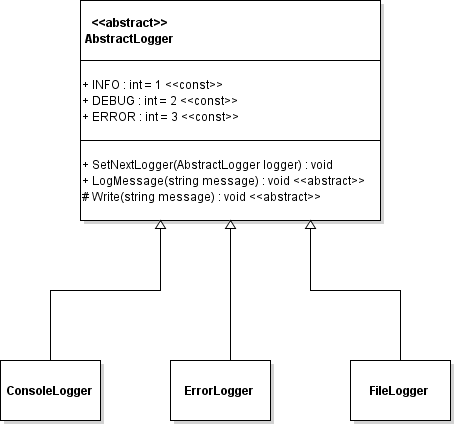
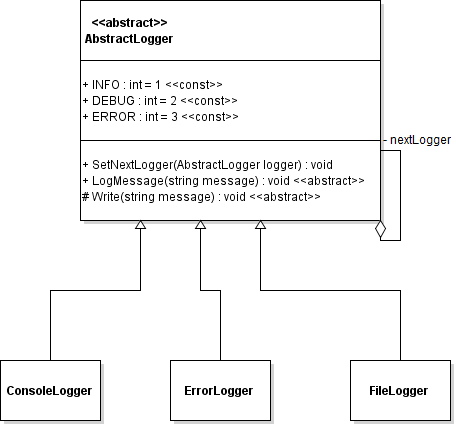
Add Docs Responsability

diff --git a/Docs/SimpleLoggerDiagram.class.violet.html b/Docs/SimpleLoggerDiagram.class.violet.html
@@ -147,166 +147,190 @@ AbstractLogger</text>
       <middleLabel></middleLabel>
       <endLabel></endLabel>
     </InheritanceEdge>
+    <AggregationEdge id="49">
+      <start class="ClassNode" reference="3"/>
+      <end class="ClassNode" reference="3"/>
+      <startLocation class="Point2D.Double" id="50" x="230.0" y="110.0"/>
+      <endLocation class="Point2D.Double" reference="50"/>
+      <transitionPoints id="51">
+        <Point2D.Double id="52" x="530.0" y="120.0"/>
+        <Point2D.Double id="53" x="500.0" y="150.0"/>
+      </transitionPoints>
+      <id id="54" value="3b5801ab-c475-4ca6-b536-6c50045ef6e2"/>
+      <revision>1</revision>
+      <bentStyle name="STRAIGHT"/>
+      <startLabel>- nextLogger</startLabel>
+      <middleLabel></middleLabel>
+      <endLabel></endLabel>
+    </AggregationEdge>
   </edges>
 </ClassDiagramGraph>]]></SCRIPT>
 	<BR />
 	<BR />
[26 lines of base64/hex data omitted]
-VbEqAGBVrIpVAbAqVsWqAFgVq2JVAMCqWBWrAmBVrIpVAbAqVsWqAIBVsSoAYFWsilUBsCpWxaoA
-WBWrZsmIAkB6waqsVQGAtSpWxaoAWBWrYlUArIpVsSoAYFWsCgBYFatiVQCsilWxKgBgVawKAFgV
[32 lines of base64/hex data omitted]
-AIBVsSpWBcCqWBWrAmBVrIpVAQCrYlUAwKpYFasCYFWsilUBsCpWxaoAgFWxKlYFwKpYFasCYFWs
-ilUBAKtiVQDAqlgVqwJgVayaYSMKAOkFq7JWBQDWqlgVqwJgVayKVQGwKlbFqgCAVbEqAGBVrIpV
-AbAqVsWqAIBVsSoAYFWsilUBsCpWxaoAWBWrYlUAwKpYFasCYFWsilUBsCpWxaoAgFWxKgBgVayK
[48 lines of base64/hex data omitted]
-WBWrAgBWxaoAgFWxKlYFwKpYFasCYFWsilUBAKtiVawKgFWxKlYFwKpYFasCAFbFqgCAVbEqVgXA
[44 lines of base64/hex data omitted]
-AAAASUVORK5C" />
[26 lines of base64/hex data omitted]
+AiBWxIpYAQCxIlYAQKyIFbECIFbEilgBECtiRawAgFgRK2IFQKyIFbECIFbEilgBALEiVsQKgFgR
[1 lines of base64/hex data omitted]
+VgBArIgVABArYkWsAIgVsSJWAECsiBUAECtiRawAiBWxIlYAxIpYESsAIFbEilgBECtiRawAiBWx
[31 lines of base64/hex data omitted]
+ESsAIFbEilgBECtiRawAiBWxIlYAQKyIFbECIFbEilgBECtiRawAgFgRK2IFQKyIFbECIFbEilgB
[54 lines of base64/hex data omitted]
+ilhTDLlQLeRCRayIFbECAGJFrIgVALEiVsQKgFgRK2IFAMSKWBErAGJFrIgVALEiVsQKAIgVsQIA
[12 lines of base64/hex data omitted]
+WBErbUasgFgBSdFmQKxAwNNmAMSKWGkzYgXECkiKNgNiBQKeNgMgVgKeNiNWQKyIlTbTZkCsgKRo
[35 lines of base64/hex data omitted]
+AElFTkSuQmCC" />
 </BODY>
 </HTML>

diff --git a/README.md b/README.md
@@ -1,1 +1,4 @@
-# git-branches-tp3
+# Travail en groupe sur un dépôt commun
+
+## Gestion des logs avec un Design Pattern
+
